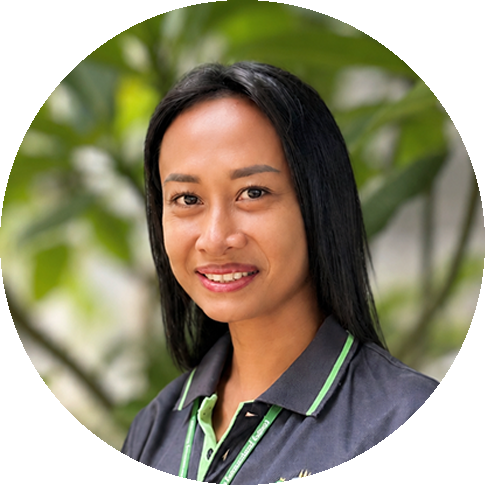
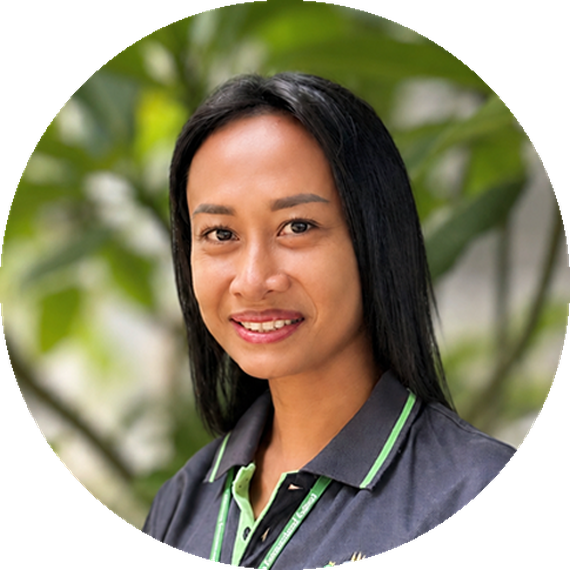
Our Team: Tip master at the standard 570 px PNG size
Claude-Session: https://claude.ai/code/session_01PoY1PJhjH1TXN1mwSNCBUP

diff --git a/PHOTO-SOURCES.md b/PHOTO-SOURCES.md
@@ -55,7 +55,7 @@ This register reflects the latest user-selected photos for Campus, Secondary, Pr
 
 - `our-school/our-team/` / Mr Dara: new HEIC portrait supplied 11 October 2026; sRGB, cropped closer to a head-and-shoulders circle to match the roster, 570 × 570 circular transparent PNG master in `assets/images/team/dara.png`, served as `assets/images/optimized/team-dara-v2.webp`. The Head of School welcome page photo is unchanged.
 - `our-school/our-team/` / Mr Mark: original `Mark.HEIC` (re-supplied 11 October 2026); sRGB, full-width square crop framed to match Mr Dara, with a light warm (yellow) and saturation lift, 570 × 570 circular transparent PNG master in `assets/images/team/mark.png`, served as `assets/images/optimized/team-mark-colour-v5.webp`.
-- `our-school/our-team/` / Ms Tippawan (Tip): re-cropped about 15% tighter on 27 October 2026 from George's re-supplied `Tip.png` (674 × 674 with a baked-in green ring): 485 px square at 75,58, inside the ring, so she sits lower and larger, matching Mr Dara and Mr Mark. The circular transparent master `assets/images/team/tip-v2.png` is kept at 485 × 485 (no upscaling) and served as `assets/images/optimized/team-tip-v2.webp` (384 px, WebP quality 90, 26 KB). The old files are kept.
+- `our-school/our-team/` / Ms Tippawan (Tip): re-cropped about 15% tighter on 27 October 2026 from George's re-supplied `Tip.png` (674 × 674 with a baked-in green ring): 485 px square at 75,58, inside the ring, so she sits lower and larger, matching Mr Dara and Mr Mark. Master `assets/images/team/tip-v2.png` is the standard 570 × 570 circular transparent PNG. The served `assets/images/optimized/team-tip-v2.webp` is made straight from the 485 px crop at 384 × 384 with transparency, WebP quality 90, 26 KB (in line with the other roster portraits). The old files are kept.
 - `our-school/our-team/` / Ms Jassy, Mr Josh, Ms Minda: no photo yet; they show the green person-icon placeholder (`.team-avatar-v2--placeholder`).
 
 ## Earlier photo-selection history
